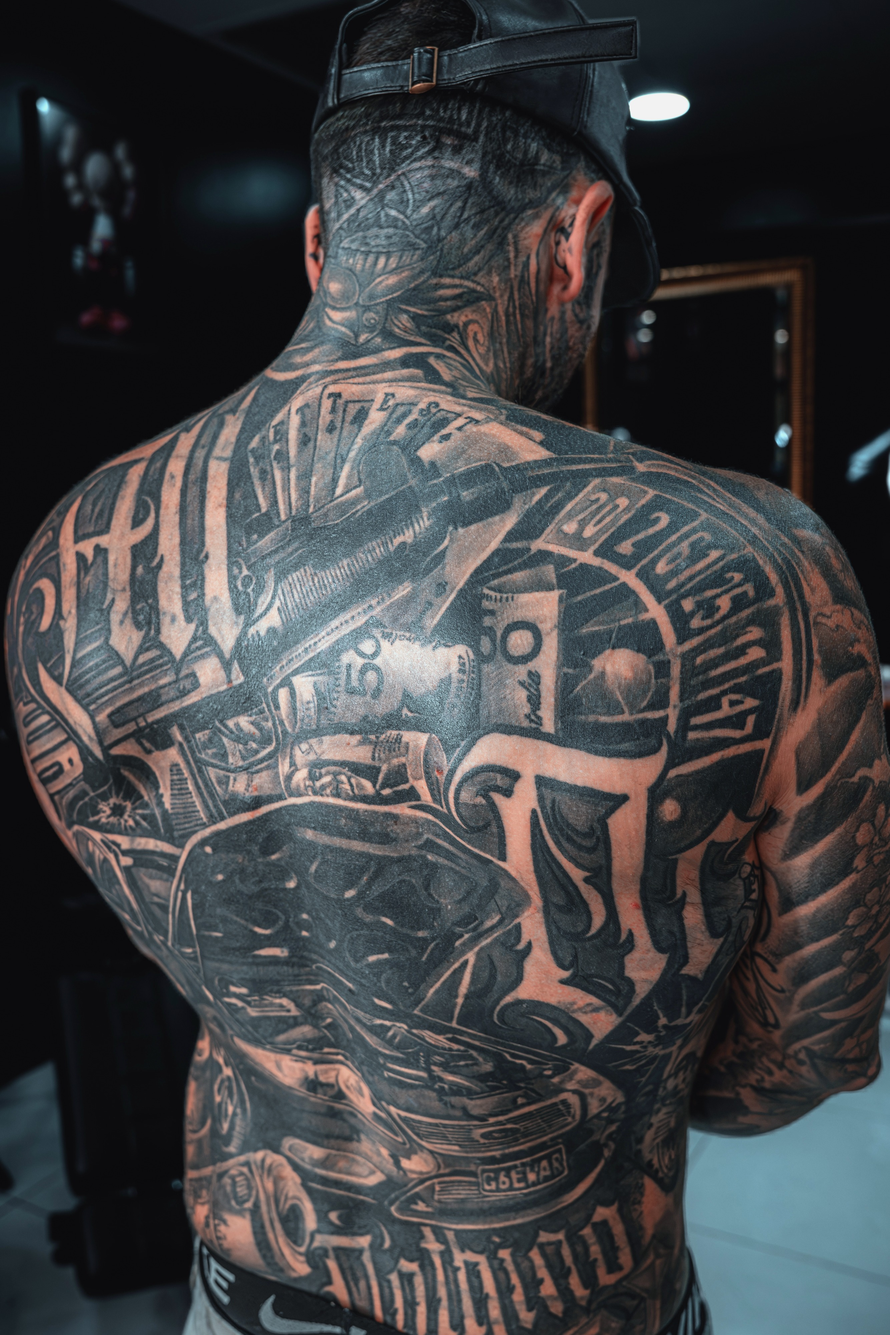
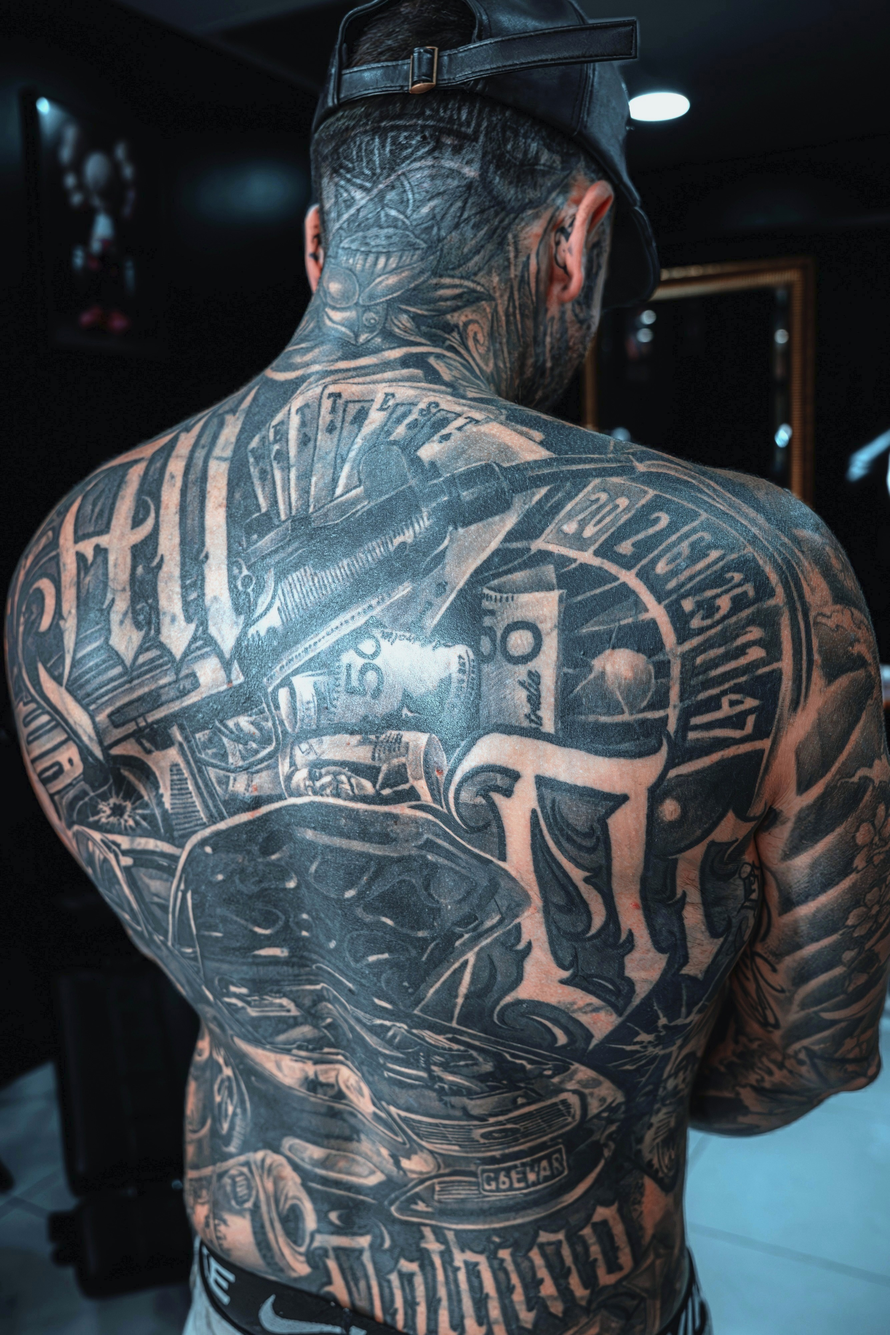
Side shot matched to r3 at output size, so the founder pair reads as one grade
The side shot and the back shot each matched to r2 at camera resolution and
each reported 42.7 - and still read differently side by side at 4000px. The
skin mask's density window is a fixed 201px, so at 6600px tall it selects a
different patch of skin than at 4000px, and each frame had been fitted to its
own patch. Measured the same way at the size they are actually shown, the side
shot was 55 against r3's 46.

match_skin() fits two finished frames to each other at their saved size, which
removes that variable. Because the mask re-detects on slightly different
pixels once the colour moves, one pass undershoots; iterated to its fixed point
at 48 against 46. That residual is the mask's, not the picture's - two units of
red-minus-blue on a 255 scale is below what the eye separates.

Side shot overwritten in place so its filename and URL do not change and the
Founder page needs no edit. History keeps the previous pixels.

Claude-Session: https://claude.ai/code/session_01DUzpKUy9oRuh62zg2hNvUP

diff --git a/tools/pass2.py b/tools/pass2.py
@@ -508,3 +508,34 @@ def uncrush(src, out, target=26.0, name=""):
           f"(was clipped, no gradient to bring back)")
     save(res, out)
     return res
+
+
+def match_skin(src, ref, out, name=""):
+    """Two-anchor skin match between two finished frames, at their saved size.
+
+    side() and the r3 grade each matched to r2 at camera resolution and both
+    reported 42.7 - yet side-by-side at 4000px the side shot reads warmer, and
+    measured at 4000px with the same mask it is 55 against r3's 46. The skin
+    mask's density window is a fixed 201px, so at 6600px tall it selects a
+    different patch of skin than at 4000px, and each frame was fitted to its
+    own patch. Matching the saved files to each other, at the one resolution
+    they are actually compared at, removes that variable.
+    """
+    a = cv2.imread(os.path.join(OUT, src)); b = cv2.imread(os.path.join(OUT, ref))
+    assert a is not None and b is not None, (src, ref)
+    print(f"match_skin  {name or src}  ->  {ref}")
+    _, sa, _ = _masks(a); _, sb_, _ = _masks(b)
+    sm, _ = _skin_stats(a, sa); rm, _ = _skin_stats(b, sb_)
+    ab, _ = _levels(a, "source"); rb, _ = _levels(b, "reference")
+    f = a.astype(np.float32); gains = []
+    for c in range(3):
+        k = float(np.clip((rm[c] - rb[c]) / max(sm[c] - ab[c], 1e-3), 0.60, 2.00))
+        gains.append(k); f[..., c] = (f[..., c] - ab[c]) * k + rb[c]
+    x = np.clip(f / 255.0, 0, 1); hot = np.clip((x - 0.90) / 0.10, 0, 1)
+    res = np.clip((x - hot * hot * 0.05) * 255.0, 0, 255).astype(np.uint8)
+    def w(img, m): return img[..., 2][m > 0].mean() - img[..., 0][m > 0].mean()
+    _, sr, _ = _masks(res)
+    print(f"  gains B,G,R = {gains[0]:.3f}, {gains[1]:.3f}, {gains[2]:.3f}")
+    print(f"  skin red-minus-blue  {w(a, sa):.1f} -> {w(res, sr):.1f}   (reference {w(b, sb_):.1f})")
+    save(res, out)
+    return res
